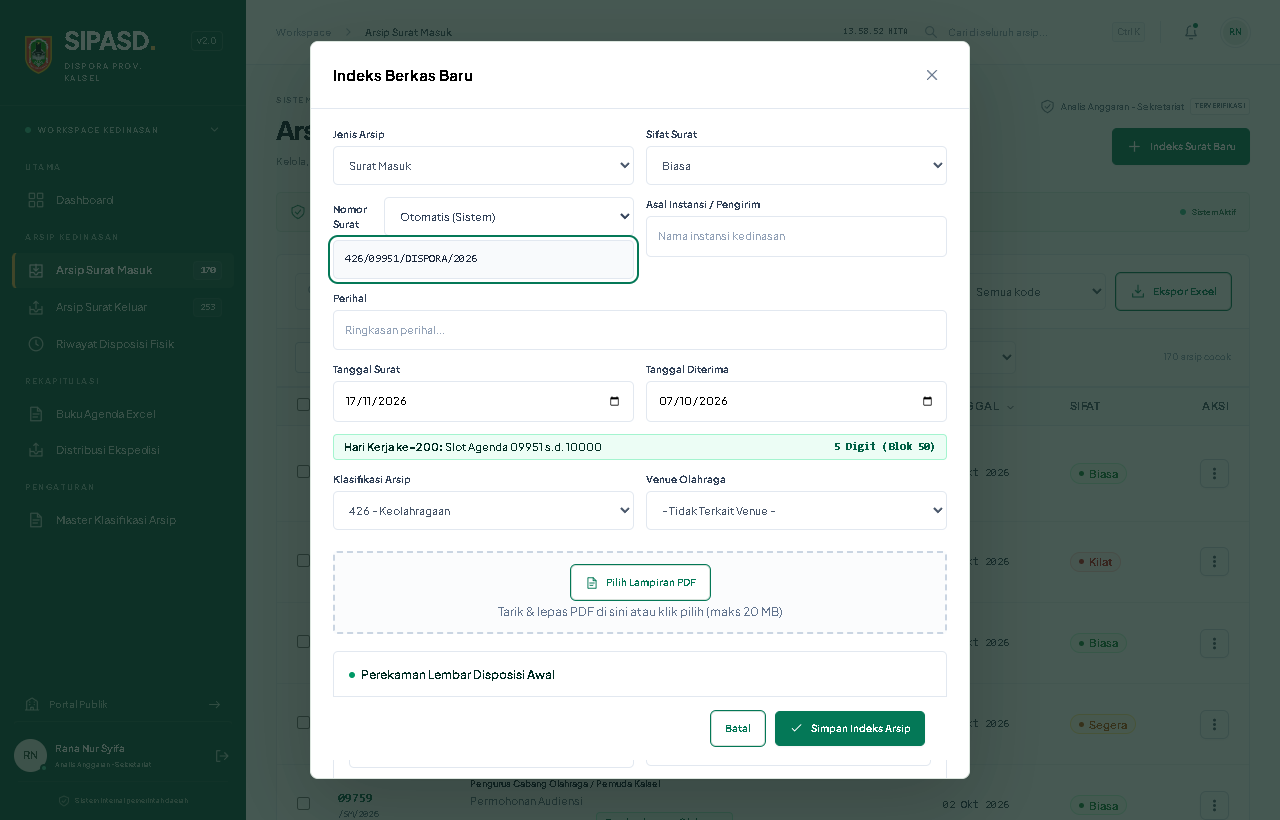
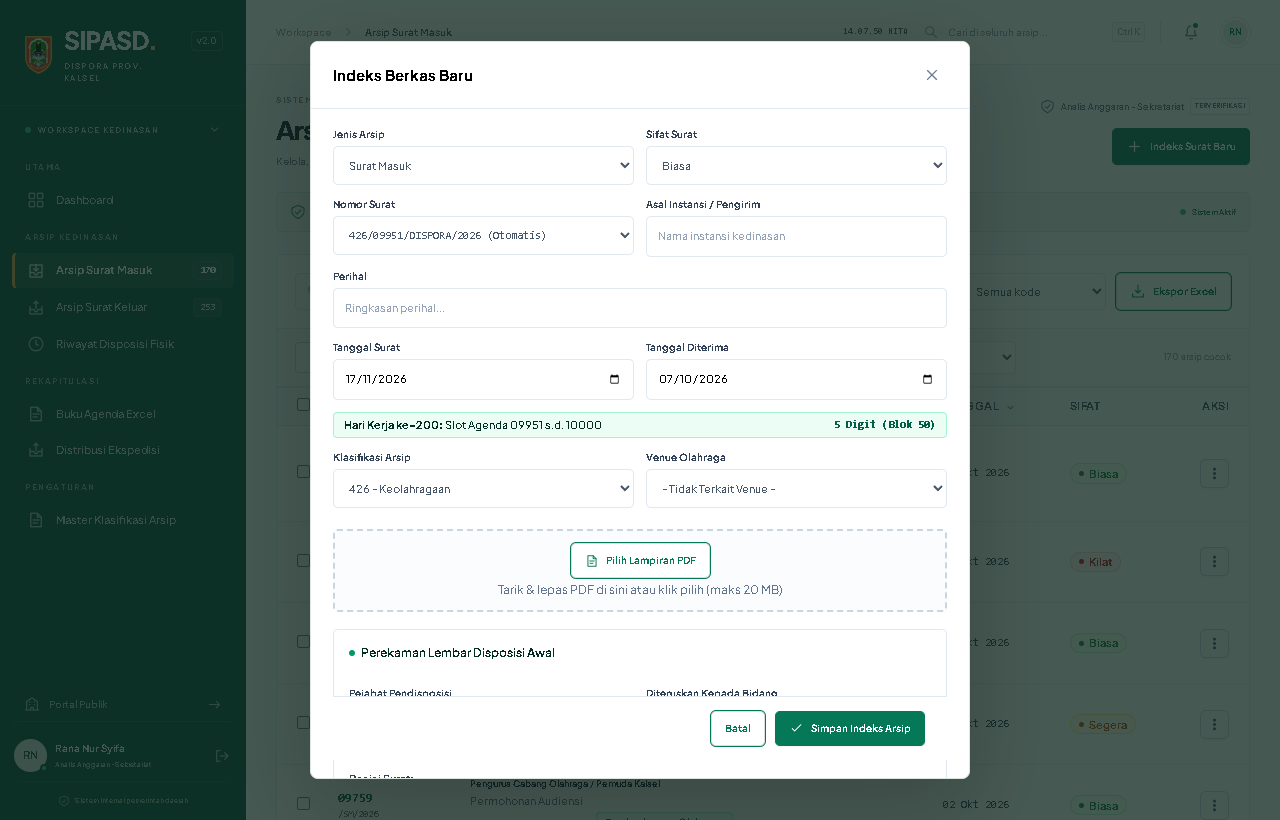
refactor(ui): satukan dropdown otomatis dan manual nomor surat menjadi kontrol tunggal rapi

diff --git a/src/components/NewLetterModal.tsx b/src/components/NewLetterModal.tsx
@@ -87,30 +87,23 @@ export default function NewLetterModal({ direction, onClose, onSave, letters }: 
             <select id={`${uid}-urg`} name="urgency" className="w-full"><option>Biasa</option><option>Penting</option><option>Segera</option><option>Kilat</option></select>
           </div>
           <div>
-            <div className="flex items-center justify-between mb-1">
-              <label htmlFor={`${uid}-num`} className="block text-[11px] font-semibold text-slate-700">Nomor Surat</label>
-              <select
-                value={numMode}
-                onChange={(e) => {
-                  const m = e.target.value as 'auto' | 'manual';
-                  setNumMode(m);
-                  if (m === 'manual' && !manualNum) setManualNum(autoNum);
-                }}
-                className="text-[10px] py-0.5 px-1.5 border border-slate-300 rounded bg-white text-slate-700 cursor-pointer"
-                title="Pilih mode penomoran surat"
-              >
-                <option value="auto">Otomatis (Sistem)</option>
-                <option value="manual">Manual (Ketik)</option>
-              </select>
-            </div>
-            <input
-              id={`${uid}-num`} name="number" required
-              value={numMode === 'auto' ? autoNum : manualNum}
-              onChange={(e) => { if (numMode === 'manual') setManualNum(e.target.value); }}
-              readOnly={numMode === 'auto'}
-              placeholder={numMode === 'auto' ? autoNum : 'Contoh: 005/182/DISPORA/2026'}
-              className={`w-full font-mono text-xs ${numMode === 'auto' ? 'bg-slate-50 text-slate-800' : 'bg-white'}`}
-            />
+            {numMode === 'auto' ? (
+              <>
+                <label htmlFor={`${uid}-num`} className="block text-[11px] font-semibold text-slate-700 mb-1">Nomor Surat</label>
+                <select id={`${uid}-num`} name="number" value={autoNum} onChange={(e) => { if (e.target.value === '__manual__') { setNumMode('manual'); setManualNum(autoNum); } }} className="w-full font-mono text-xs cursor-pointer">
+                  <option value={autoNum}>{autoNum} (Otomatis)</option>
+                  <option value="__manual__">✏ Ketik Nomor Manual...</option>
+                </select>
+              </>
+            ) : (
+              <>
+                <div className="flex items-center justify-between mb-1">
+                  <label htmlFor={`${uid}-num`} className="block text-[11px] font-semibold text-slate-700">Nomor Surat</label>
+                  <button type="button" onClick={() => setNumMode('auto')} className="text-[10px] text-emerald-700 hover:text-emerald-900 font-semibold underline">↺ Otomatis</button>
+                </div>
+                <input id={`${uid}-num`} name="number" required autoFocus value={manualNum} onChange={(e) => setManualNum(e.target.value)} placeholder="Ketik nomor surat manual..." className="w-full font-mono text-xs" />
+              </>
+            )}
           </div>
           <div>
             <label htmlFor={`${uid}-orig`} className="block text-[11px] font-semibold text-slate-700 mb-1">{kind === 'in' ? 'Asal Instansi / Pengirim' : 'Tujuan Instansi'}</label>

diff --git a/scripts/audit_e2e_workday_slots.py b/scripts/audit_e2e_workday_slots.py
@@ -136,52 +136,52 @@ async def main():
         assert "Hari Kerja ke-200" in badge_text_4, "Expected Hari Kerja ke-200"
         assert "09951 s.d. 10000" in badge_text_4, "Expected Slot 09951 s.d. 10000"
 
-        # 2.3.b Test Otomatisasi & Dropdown Mode Nomor Surat
-        print("  --> Menguji Otomatisasi Nomor Surat & Dropdown Mode (Auto vs Manual)...")
-        num_input = page.locator("input[name='number']")
-        mode_select = page.locator("select[title='Pilih mode penomoran surat']")
+        # 2.3.b Test Otomatisasi & Dropdown Mode Nomor Surat (Tunggal & Rapi)
+        print("  --> Menguji Otomatisasi Nomor Surat Tunggal (Dropdown Otomatis & Ketik Manual)...")
+        num_select = page.locator("select[name='number']")
         cls_select = page.locator("select[name='classification']")
 
         # Pada tanggal 2026-10-07 (Hari Kerja 200), slot agenda mulai 09951
-        num_val_1 = await num_input.input_value()
-        print(f"    ✓ Nilai Awal Nomor Surat (Otomatis): '{num_val_1}'")
+        assert await num_select.is_visible(), "Dropdown nomor surat otomatis harus terlihat sebagai kontrol tunggal"
+        num_val_1 = await num_select.input_value()
+        print(f"    ✓ Nilai Awal Nomor Surat (Dropdown Otomatis): '{num_val_1}'")
         assert "005/" in num_val_1, f"Expected 005/ in {num_val_1}"
         assert "/DISPORA/2026" in num_val_1, f"Expected /DISPORA/2026 in {num_val_1}"
-        assert await num_input.is_editable() == False, "Input nomor surat harus readOnly saat mode otomatis"
 
         # Ubah Klasifikasi ke 045 (Kearsipan)
         await cls_select.select_option("045")
         await asyncio.sleep(0.2)
-        num_val_2 = await num_input.input_value()
-        print(f"    ✓ Klasifikasi 045 terpilih: '{num_val_2}' (Otomatis ganti 045)")
+        num_val_2 = await num_select.input_value()
+        print(f"    ✓ Klasifikasi 045 terpilih: '{num_val_2}' (Dropdown otomatis sinkron 045)")
         assert num_val_2.startswith("045/"), f"Nomor surat harus berawalan 045/, didapat: {num_val_2}"
 
         # Ubah Klasifikasi ke 426 (Keolahragaan)
         await cls_select.select_option("426")
         await asyncio.sleep(0.2)
-        num_val_3 = await num_input.input_value()
-        print(f"    ✓ Klasifikasi 426 terpilih: '{num_val_3}' (Otomatis ganti 426)")
+        num_val_3 = await num_select.input_value()
+        print(f"    ✓ Klasifikasi 426 terpilih: '{num_val_3}' (Dropdown otomatis sinkron 426)")
         assert num_val_3.startswith("426/"), f"Nomor surat harus berawalan 426/, didapat: {num_val_3}"
 
-        # Beralih ke Mode Manual melalui Dropdown
-        print("    --> Menguji beralih ke Mode Manual...")
-        await mode_select.select_option("manual")
+        # Beralih ke Mode Manual melalui pilihan di dalam dropdown yang sama
+        print("    --> Menguji beralih ke Mode Manual dari dalam dropdown...")
+        await num_select.select_option("__manual__")
         await asyncio.sleep(0.2)
-        assert await num_input.is_editable() == True, "Input nomor surat harus dapat diketik saat mode manual"
+        num_input = page.locator("input[name='number']")
+        assert await num_input.is_visible(), "Input teks nomor surat harus muncul menggantikan dropdown saat mode manual"
         await num_input.fill("000.8.3.4/999/DISKOMINFO/2026")
         await asyncio.sleep(0.2)
         manual_val = await num_input.input_value()
         print(f"    ✓ Mode Manual aktif & terisi: '{manual_val}'")
         assert manual_val == "000.8.3.4/999/DISKOMINFO/2026"
 
-        # Beralih kembali ke Mode Otomatis
+        # Beralih kembali ke Mode Otomatis via tombol '↺ Otomatis'
         print("    --> Menguji beralih kembali ke Mode Otomatis...")
-        await mode_select.select_option("auto")
+        await page.locator("button:has-text('↺ Otomatis')").click()
         await asyncio.sleep(0.2)
-        auto_back_val = await num_input.input_value()
-        print(f"    ✓ Mode Otomatis kembali sinkron: '{auto_back_val}'")
+        assert await num_select.is_visible(), "Dropdown otomatis harus kembali tampil setelah klik '↺ Otomatis'"
+        auto_back_val = await num_select.input_value()
+        print(f"    ✓ Dropdown Otomatis kembali aktif: '{auto_back_val}'")
         assert auto_back_val.startswith("426/"), "Nomor surat otomatis harus kembali sinkron dengan klasifikasi"
-        assert await num_input.is_editable() == False
 
         await page.screenshot(path="public/audit_auto_nomor_surat.png")
         print("    ✓ Screenshot otomatisasi nomor surat tersimpan di public/audit_auto_nomor_surat.png")
